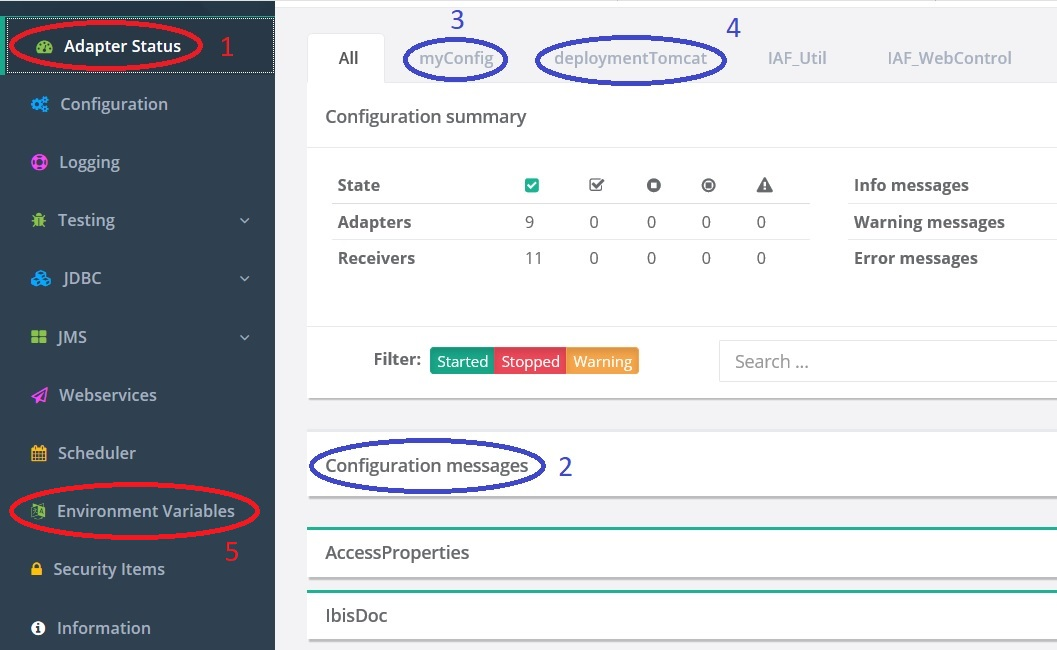
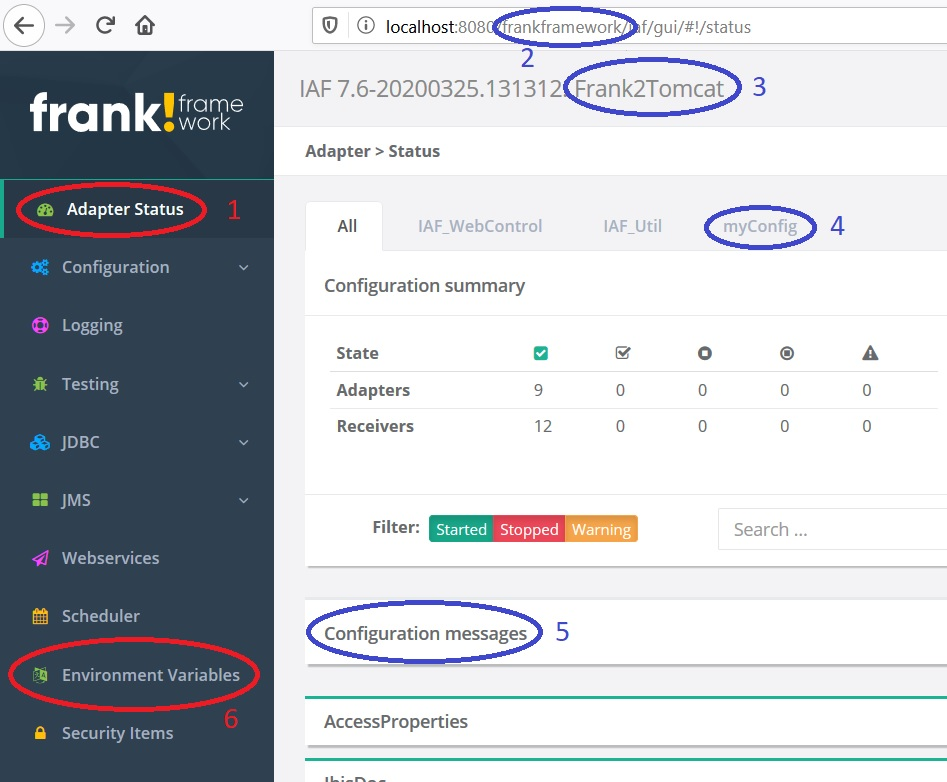
Fix tutorial about manual deployment on Tomcat with H2 database

diff --git a/docs/source/deploying/tomcatBasic.rst b/docs/source/deploying/tomcatBasic.rst
@@ -19,14 +19,12 @@ As a starting point you need a Linux PC, a Linux virtual machine or a Docker con
 Please extract the .zip into a directory of your choice; we refer to it as ``work``. You should have the following directory structure: ::
 
   work
-  |- classes
-     |- Configuration.xml
-     |- DeploymentSpecifics.properties
   |- configurations
      |- myConfig
         |- Configuration.xml
         |- ConfigurationReferenceProperties.xml
         |- DeploymentSpecifics.properties
+        |- StageSpecifics_LOC.properties
   |- tests
      |- myConfig
         |- scenario01.properties
@@ -34,7 +32,7 @@ Please extract the .zip into a directory of your choice; we refer to it as ``wor
         |- step2.txt
   |- downloadLibraries.sh
   |- Dockerfile
-  |- resorceDef
+  |- resourceDef
 
 When you are done with these preparations, please do the following:
 
@@ -63,7 +61,7 @@ Now you need to deploy the Frank!Framework within your Tomcat instance. The tabl
 ========================================================  =========================================================
 Source                                                    Destination
 --------------------------------------------------------  ---------------------------------------------------------
-``ibis-adapterframework-webapp-7.5-20191211.175453.war``  ``/usr/local/tomcat/webapps/frankframework.war``
+``ibis-adapterframework-webapp-7.6-20200325.131312.war``  ``/usr/local/tomcat/webapps/frankframework.war``
 ``h2-1.4.199.jar``                                        ``/usr/local/tomcat/lib/h2.jar``
 ``jtds-1.3.1.jar``                                        ``/usr/local/tomcat/lib/jtds-1.3.1.jar``
 ``geronimo-jms_1.1_spec-1.1.1.jar``                       ``/usr/local/tomcat/lib/geronimo-jms_1.1_spec-1.1.1.jar``
@@ -117,16 +115,11 @@ Add your Frank configuration
 With these steps, you have deployed the Frank!Framework on your Docker container. It will not work properly yet because you do not have a configuration. Please continue as follows:
 
 16. Enter your Docker container with the command documented earlier.
-#. The contents of your ``classes`` folder must be stored inside the deployment on your application server. Within your container, copy your ``/home/root/Downloads/classes`` folder to your deployment: ::
+#. You need to set some system properties. You can define them by editing the file ``/usr/local/tomcat/conf/catalina.properties``. Please open this file with text editor ``nano``: ::
 
-     >> cd /home/root/Downloads/work/classes
-     >> mkdir -p /usr/local/tomcat/webapps/frankframework/WEB-INF/classes
-     >> cp -r * /usr/local/tomcat/webapps/frankframework/WEB-INF/classes
-     >> cd /usr/local/tomcat/webapps/frankframework/WEB-INF/classes
-     >> ls
+     >> nano /usr/local/tomcat/conf/catalina.properties
 
-   You should see the copied files within your deployment.
-#. You need to set the DTAP stage as a system property. You can set system properties in Tomcat by defining them in file ``/usr/local/tomcat/conf/catalina.properties``. Please add the following line to this file:
+#. You need to set the DTAP stage as a system property. Please add the following line to ``catalina.properties``:
 
    .. code-block:: none
       
@@ -134,9 +127,23 @@ With these steps, you have deployed the Frank!Framework on your Docker container
 
    .. WARNING::
 
-      It is not realistic that we do a manual deployment on Tomcat but that we have DTAP stage LOC. If you are developing, use Frank!Runner if possible. We choose DTAP stage LOC because we are including a Larva test in our deployment, which is not realistic in a production environment.
+      It is not realistic that we do a manual deployment on Tomcat but that we have DTAP stage LOC. If you are developing, use the Frank!Runner if possible. We choose DTAP stage LOC because we are including a Larva test in our deployment, which is not realistic in a production environment.
 
-#. The ``configurations`` directory is stored outside the deployment on your application server. You can use the copy you stored in ``/home/root/Downloads/work/configurations``. This is not the default location expected by the Frank!Framework. You have to tell the Frank!Framework that you choose a custom directory for configuration ``myConfig``. You will do this by setting a system property. Please add the following line to ``catalina.properties``: ::
+By default, the Frank!Framework expects that there is one configuration, and that the name of this configuration equals the value of property ``instance.name.lc``. This default configuration is expected to be part of the webapplication.
+
+.. WARNING::
+
+   Do not confuse this default behavior of the Frank!Framework with the Frank!Runner. The Frank!Runner overrides this default behavior, which is why you do not read about this in chapter :ref:`gettingStarted`.
+
+19. You are going to tell the Frank!Framework what configurations you have, overriding the default behavior explained above. Please add the following to ``catalina.properties``: ::
+
+     configurations.names=myConfig
+
+#. Frank configs can be stored in multiple ways. Storing them within a directory is only one of the possibilities. Alternatively, Frank configs can be stored in the database of the Frank!Framework. Please tell the Frank!Framework that configuration ``myConfig`` appears in a directory by adding the following to ``catalina.properties``: ::
+
+     configurations.myConfig.classLoaderType=DirectoryClassLoader
+
+#. The ``configurations`` directory is stored outside the deployment on your application server. You can use the copy you stored in ``/home/root/Downloads/work/configurations``. This is not the default location expected by the Frank!Framework. You have to tell the Frank!Framework that you choose a custom directory for your configurations. Please add the following line to ``catalina.properties``: ::
 
      configurations.myConfig.directory=/home/root/Downloads/work/configurations
 
@@ -145,22 +152,21 @@ With these steps, you have deployed the Frank!Framework on your Docker container
      scenariosroot1.directory=/home/root/Downloads/work/tests/
      scenariosroot1.description=My Larva tests
 
+#. Each deployment of the Frank!Framework needs to define property ``instance.name``. When you use the Frank!Runner this is handled automatically, but now you have to set this property yourself. Please add the following line to ``catalina.properties``: ::
+
+     instance.name=Frank2Tomcat
+
 #. Finally configure your database by configuring a JNDI resource, see https://tomcat.apache.org/tomcat-7.0-doc/jndi-resources-howto.html for more information. Please add the following lines to ``/usr/local/tomcat/conf/context.xml``:
 
-   .. code-block:: XML
-
-      <Resource
-          name="jdbc/deploymenttomcat"
-          type="org.h2.jdbcx.JdbcDataSource"
-          factory="org.apache.naming.factory.BeanFactory"
-          URL="jdbc:h2:/usr/local/tomcat/logs/ibisname" />
+   .. literalinclude:: ../../../src/deploymentTomcat/resourceDef
+      :language: xml
 
    These lines should be placed to the end of the file, right before the last line ``</Context>``. It is important that the ``<Resource>`` tag is inside of the ``<Context>`` tag.
 
    .. NOTE::
 
-      The JNDI name ``jdbc/deploymenttomcat`` is referenced in the example Frank configuration in ``classes/Configuration.xml``. The line ``<jmsRealm realmName="jdbc" datasourceName="jdbc/${instance.name.lc}"/>`` references it, because the value of property ``instance.name.lc`` is ``deploymenttomcat``. The property ``instance.name.lc`` is generated automatically by the Frank!Framework from property ``instance.name`` by replacing upper-case letters with lower-case letters. In file ``classes/DeploymentSpecifics.properties`` you can see that property ``instance.name`` is ``deploymentTomcat``.
-
+      The JNDI name ``jdbc/frank2tomcat`` is referenced automatically by the Frank!Framework to initialize the database. This is the referenced JNDI name because you gave property ``instance.name`` the value ``Frank2Tomcat``. The Frank!Framework automatically calculates property ``instance.name.lc`` by converting all characters of the value of ``instance.name`` to lower case. Property ``instance.name.lc`` gets the value ``frank2tomcat``. The JNDI name of the database is obtained by prepending ``jdbc/``. For detauls see section :ref:`advancedDevelopmentDatabase`.
+      
 #. Enter ``exit`` to exit from your Docker container.
 
 With these steps you have added your Frank configuration and you have configured its database.
@@ -172,20 +178,26 @@ Test your work
 
 You can test your work with the following steps:
 
-23. Restart your docker container with the following commands: ::
+26. Restart your docker container with the following commands: ::
 
      > docker stop tomcat-frank
      > docker start tomcat-frank
 
-#. Remember that you exported port 8080 of your container. When you access port 8080 of your host computer, you reach into your container. Please start a webbrowser and go to http://localhost:8080/frankframework/iaf/gui. You should see the following.
+#. Remember that you exported port 8080 of your container. When you access port 8080 of your host computer, you reach into your container. Please start a webbrowser and go to http://localhost:8080/frankframework. You should see the following.
 
    .. image:: frankHome.jpg
 
-#. You are in the Adapter Status screen (number 1). Please click "Configuration messages" (number 2) to see that there are no error messages. You should see tabs "myConfig" (number 3) and "deploymentTomcat" (number 4).
-#. If you have errors, you can click "Environment Variables" (number 5). Using Ctrl-F you can check whether property ``configurations.myConfig.directory`` is defined.
-#. If you have errors, you can also examine the output produced by Tomcat. If you are using docker, use the command ``docker logs tomcat-frank``.
+#. You are in the Adapter Status screen (number 1). The instance name is "Frank2Tomcat" (number 3). Your configuration "myConfig" appears as a tab (number 4).
 
    .. NOTE::
+
+      Please note the difference between the URL (number 2) and the instance name (number 3). The word "frankframework" in the URL is there because you deployed the Frank!Framework in file "frankframework.war". You configured the instance name in file "catalina.properties".
+
+#. Please click "Configuration messages" (number 5) to see that there are no error messages.
+#. If you have errors, you can click "Environment Variables" (number 6). Using Ctrl-F you can search for properties. Do you see all properties you should have defined in "catalina.properties"?
+#. If you have errors, you can also examine the output produced by Tomcat. If you are using docker, use the command ``docker logs tomcat-frank``.
+
+   .. WARNING::
 
       Also if everything is well, you will probably see a lot of errors. The reason is that Apache Tomcat was already running while you were deploying your Frank. The errors were produced when your Frank was not complete. Please look for the moment that you restarted your container. Only errors after that monent are relevant.
 
@@ -203,7 +215,7 @@ You can test your work with the following steps:
 
    .. image:: frankConsoleFindTestTools.jpg
 
-#. You see you are in the Larva screen (number 1 in the figure below). Please enter "/" (number 2) to select all tests into your scenario root (number 3). Please note that you see the name here you configured using system property ``scenariosroot1.description``. Press "start" (number 4) to run your tests.
+#. You see you are in the Larva screen (number 1 in the figure below). Please choose "/myConfig/" (number 2) and "My Larva tests" (number 3) to select all tests. Number 3 shows the value you configured in system property ``scenariosroot1.description``. Press "start" (number 4) to run your tests.
 
    .. image:: larva.jpg
 
